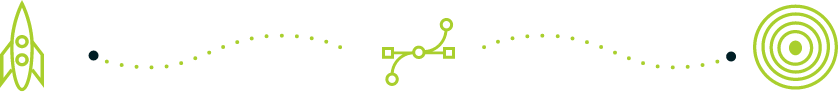
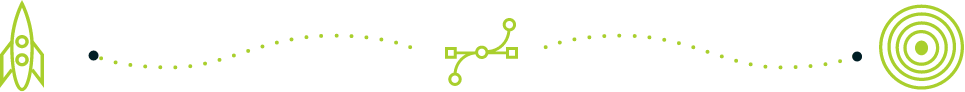
- carrers images update

diff --git a/_assets/css/careers.css b/_assets/css/careers.css
@@ -43,9 +43,30 @@
   padding: 110px 0px;
 }
 
+@media screen and (max-width: 1400px) {
+  #careers-page #join-us-section img {
+    max-width: 800px;
+  }
+}
+
+@media screen and (max-width: 1200px) {
+  #careers-page #join-us-section img {
+    max-width: 700px;
+  }
+}
+
+@media screen and (max-width: 992px) {
+  #careers-page #join-us-section img {
+    max-width: 500px;
+  }
+}
+
 @media screen and (max-width: 768px) {
   #careers-page #join-us-section {
     padding: 30px 0px;
+  }
+  #careers-page #join-us-section img {
+    max-width: 480px;
   }
 }
 
